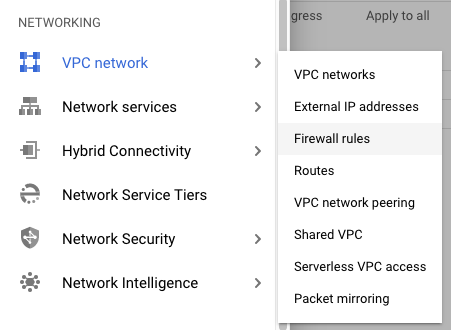
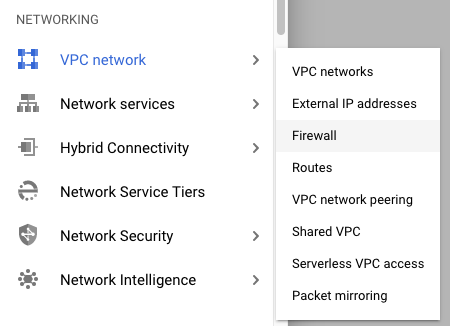
.

diff --git a/cloudpanel-ce/docs/getting-started-installation-google-cloud.md b/cloudpanel-ce/docs/getting-started-installation-google-cloud.md
@@ -67,9 +67,9 @@ Click on the button **Create** to launch the **VM Instance**.
 
 For accessing the **CloudPanel** later, we need to create a **Firewall Rule**.
 
-1) Click in the left navigation on **Networking** -> **VPC Network** -> **Firewall Rules**.
+1) Click in the left navigation on **Networking** -> **VPC Network** -> **Firewall**.
 
-<img class="border" src={useBaseUrl('img/v1/getting_started/gce_installation/vpc_network_firewall_rules.png')} /> <br /><br />
+<img class="border" src={useBaseUrl('img/v1/getting_started/gce_installation/vpc_network_firewall_rules.png?v=1')} /> <br /><br />
 
 2) Click on the button **CREATE FIREWALL RULE** and create the following rule:
 
@@ -101,6 +101,10 @@ pQ1LeXRmODsfzv4pntYeGw0dfBFidlmxujNLyd8FMZ8Yida5zcciWkLvqAAkTlwCAWNg/kdJI0R4B
[1 lines of base64/hex data omitted]
 77Lx1dHoAF/pP9DIFYfzFZ7CsQc8pBXj3 john@macbook
 ```
+
+:::warning
+Do not use the username **cloudpanel** as it's a reserved one.
+:::
 
 The **static IP Address** can be found on the VM instances overview, it's called **External IP**.
 
